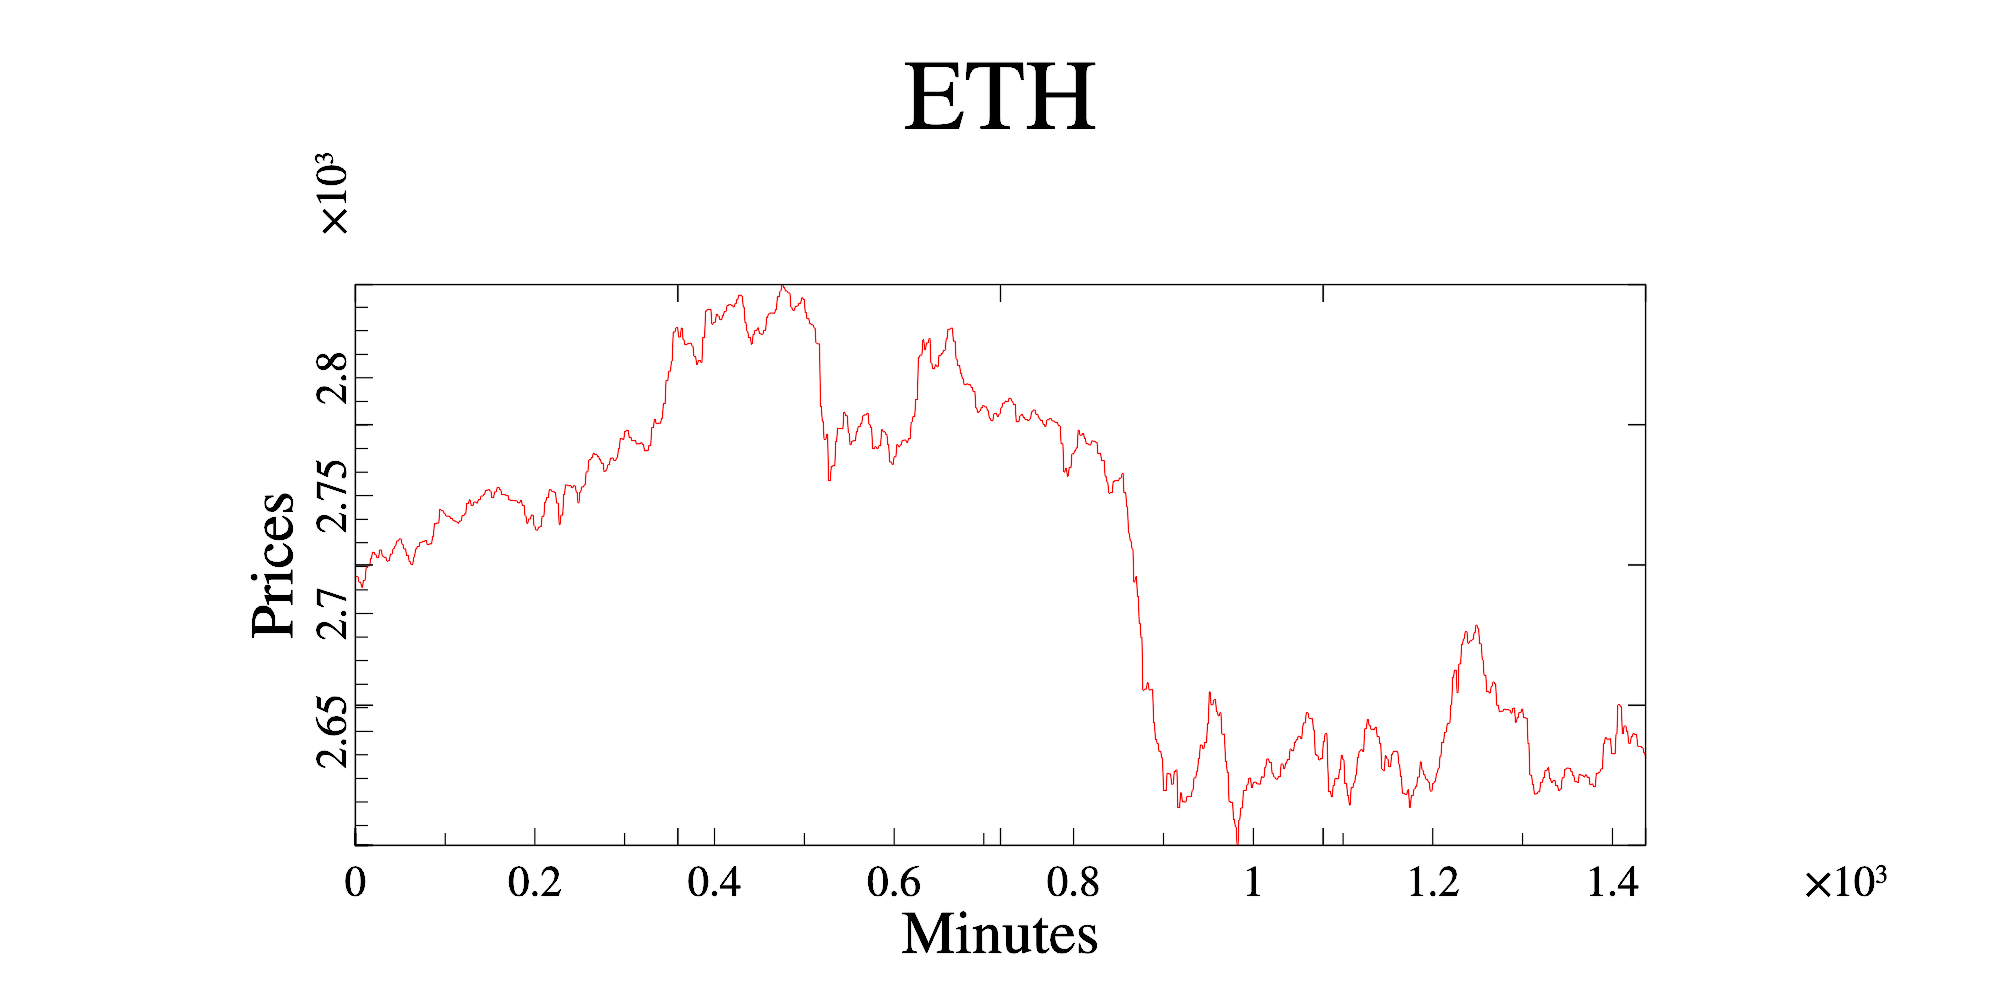
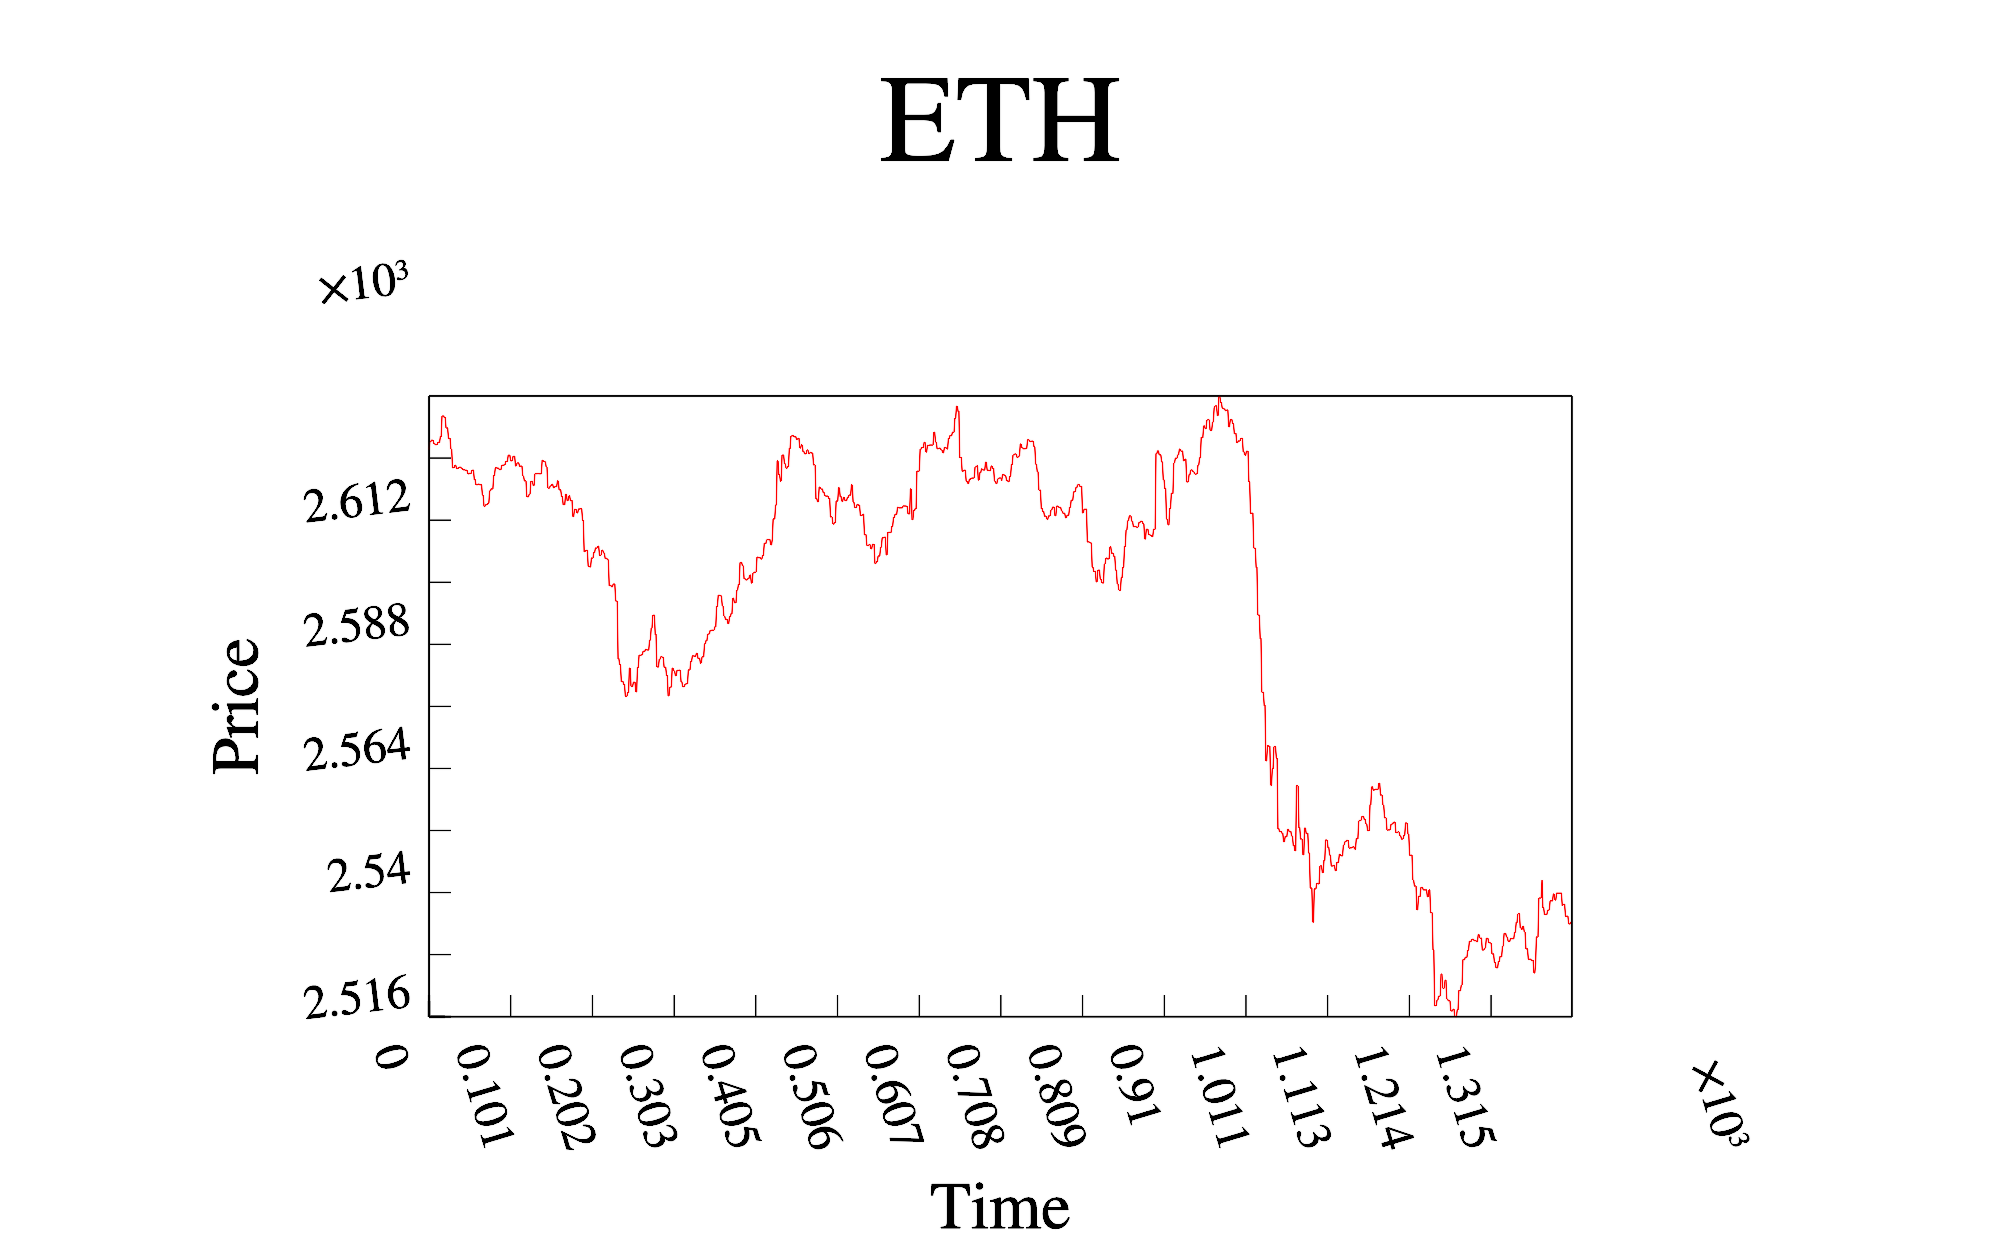
Updated the README to show usage of project. Fixed some plotting issues where plot axis labels were covered by numbers, and got rid of additional ticks. Also, made the plot have fixed amount of ticks.

diff --git a/src/graph.cpp b/src/graph.cpp
@@ -1,15 +1,15 @@
 #ifndef GRAPH_H
 #define GRAPH_H
 #include "graph.h"
+#include <cmath>
 #endif
 
 
 GraphService::GraphService(int width, int height, char *title) : gr(0, width, height){
-    gr.NewFrame();
+    gr.SubPlot(1,1,0);
     gr.Title(title);
-    gr.Box();
-    gr.Label('x', "Minutes", 0);
-    gr.Label('y', "Prices", 0);
+    gr.SetPlotFactor(1.75);
+    gr.Box("", false);
     this->title = title;
 };
 
@@ -19,13 +19,13 @@ GraphService::~GraphService() {
 };
 
 
-void GraphService::constructGraph(cryptoPrices c) {
-    size_t size = c.size(); //The number of data points
+void GraphService::constructGraph(cryptoInfo c) {
+    size_t size = c.prices.size(); //The number of data points
     //Stores the x and y information in two arrays
     double y[size];
     double x[size];    
     for(size_t i = 0; i < size; i++) {
-        y[i] = c.at(i);
+        y[i] = c.prices.at(i);
         x[i] = i;
     }
 
@@ -35,7 +35,18 @@ void GraphService::constructGraph(cryptoPrices c) {
 
     gr.SetRanges(xx, yy);
     gr.Plot(xx, yy, "r"); //Plots the data
+
+    double diffX = size;
+    double diffY = c.max - c.min;
+    double stepX = diffX / 14;
+    double stepY = diffY / 10;
+
+    gr.SetTicks('y', stepY, 0, NAN, "");
+    gr.SetTicks('x', stepX, 0, NAN, "");
     gr.Axis();
+
+    gr.Label('x', "Time", 0, "value .25");
+    gr.Label('y', "Price", 0, "value .3");
 
     //Create the file name
     char temp[strlen(title)+5];

diff --git a/src/main.cpp b/src/main.cpp
@@ -106,8 +106,8 @@ Service::Service(char *filename, char **email, int numOfEmails) : js(filename), 
             calculateInfo(&info[i]);
 
             mq.deleteDataFromTables(pj.tables[i]);
-            GraphService gs(2000, 1000, pj.symbols[i]);
-            gs.constructGraph(info[i].prices);
+            GraphService gs(2000, 1250, pj.symbols[i]);
+            gs.constructGraph(info[i]);
         }
         em.constructEmail(info, pj);
     } else {

diff --git a/src/graph.h b/src/graph.h
@@ -29,7 +29,7 @@ class GraphService {
          * @params
          * c: contains the data from the cryptocurrency
          */
-        void constructGraph(cryptoPrices c);
+        void constructGraph(cryptoInfo c);
 
     private: 
         //FIELDS
